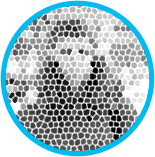
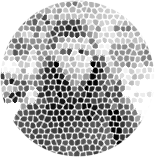
Изменен аватар

Changed region(s): [[0.0, 0.0, 1.0, 1.0]]

diff --git a/css/main.min.css b/css/main.min.css
@@ -1,1 +1,1 @@
-body{box-sizing:border-box}.wrapper{width:100%;height:1000px}header{background-color:#00b9ee;height:74px;border-bottom:2px solid #333}header div{width:20%;height:100%;float:left}header div h1{color:#fff;font-family:BebasBold;font-size:32px;text-align:center;margin-top:23.13px;margin-left:10px}header nav{height:100%;width:79%;float:left;margin-left:-1px}header nav ul{text-align:left;margin-left:7px}header nav ul li{display:inline-block;border-right:1px solid #333;margin-left:-.36em}header nav ul li a{color:#fff;height:74px;font-family:BebasBold;line-height:74px;display:inline-block;font-size:32px;text-align:center;text-decoration:none;padding:0 50px;vertical-align:middle}.active,header nav ul li a:hover{background-color:#333}.sideBar{width:20%;background-color:#737373;height:1000px;border-right:2px solid #333;position:absolute}.avatar{text-align:center;padding:10px 0}.avatar img{width:50%}.about{margin-top:10px;padding-top:20px}.about h2{color:#fff;font-family:RobotoLight;font-size:16px;margin-left:30px}.about h2 span{background-image:url(../img/icons.png);padding-left:25px;background-position:25px 2px;height:20px;width:20px}.about h2:after{content:"__________________";width:10px;padding-left:10px}.about p{color:#fff;font-family:RobotoLight;font-size:12.8px;padding:20px;padding-top:20px}.contacts{margin-top:10px;padding-top:20px}.contacts h2{color:#fff;font-family:RobotoLight;font-size:16px;margin-left:30px}.contacts h2 span{background-image:url(../img/icons.png);padding-left:25px;background-position:25px -20px;width:20px}.contacts h2:after{content:"_______________";width:10px;padding-left:10px}.contacts address{color:#fff;font-family:RobotoLight;font-size:12.8px;padding-top:20px;margin-left:60px}.contacts address:nth-child(2):before{content:"";background-image:url(../img/icons.png);background-position:1px -71px;background-repeat:no-repeat;display:inline-block;width:30px;height:30px;position:relative;top:10px;right:10px}.contacts address:nth-child(3):before{content:"";background-image:url(../img/icons.png);background-position:1px -107px;background-repeat:no-repeat;display:inline-block;width:30px;height:30px;position:relative;top:10px;right:10px}.contacts address:nth-child(4):before{content:"";background-image:url(../img/icons.png);background-position:1px -145px;background-repeat:no-repeat;display:inline-block;width:30px;height:30px;position:relative;top:10px;right:10px}
+body{box-sizing:border-box}.wrapper{width:100%;height:1000px}header{background-color:#00b9ee;height:74px;border-bottom:2px solid #333}header div{width:20%;height:100%;float:left}header div h1{color:#fff;font-family:BebasBold;font-size:32px;text-align:center;margin-top:23.13px;margin-left:10px}header nav{height:100%;width:79%;float:left;margin-left:-1px}header nav ul{text-align:left;margin-left:7px}header nav ul li{display:inline-block;border-right:1px solid #333;margin-left:-.36em}header nav ul li a{color:#fff;height:74px;font-family:BebasBold;line-height:74px;display:inline-block;font-size:32px;text-align:center;text-decoration:none;padding:0 50px;vertical-align:middle}.active,header nav ul li a:hover{background-color:#333}.sideBar{width:20%;background-color:#737373;height:1000px;border-right:2px solid #333;position:absolute}.avatar{text-align:center;padding:10px 0;margin-top:30px}.avatar img{width:50%;border-radius:50%;border:5px solid #00b9ee}.about{margin-top:10px;padding-top:20px}.about h2{color:#fff;font-family:RobotoLight;font-size:16px;margin-left:30px}.about h2 span{background-image:url(../img/icons.png);padding-left:25px;background-position:25px 2px;height:20px;width:20px}.about h2:after{content:"__________________";width:10px;padding-left:10px}.about p{color:#fff;font-family:RobotoLight;font-size:12.8px;padding:20px;padding-top:20px}.contacts{margin-top:10px;padding-top:20px}.contacts h2{color:#fff;font-family:RobotoLight;font-size:16px;margin-left:30px}.contacts h2 span{background-image:url(../img/icons.png);padding-left:25px;background-position:25px -20px;width:20px}.contacts h2:after{content:"_______________";width:10px;padding-left:10px}.contacts address{color:#fff;font-family:RobotoLight;font-size:12.8px;padding-top:20px;margin-left:60px}.contacts address:nth-child(2):before{content:"";background-image:url(../img/icons.png);background-position:1px -71px;background-repeat:no-repeat;display:inline-block;width:30px;height:30px;position:relative;top:10px;right:10px}.contacts address:nth-child(3):before{content:"";background-image:url(../img/icons.png);background-position:1px -107px;background-repeat:no-repeat;display:inline-block;width:30px;height:30px;position:relative;top:10px;right:10px}.contacts address:nth-child(4):before{content:"";background-image:url(../img/icons.png);background-position:1px -14px;background-repeat:no-repeat;display:inline-block;width:30px;height:30px;position:relative;top:10px;right:10px}

diff --git a/css/main.css b/css/main.css
@@ -77,9 +77,12 @@ header nav ul li a:hover {
 .avatar {
   text-align: center;
   padding: 10px 0;
+  margin-top: 30px;
 }
 .avatar img {
   width: 50%;
+  border-radius: 50%;
+  border: 5px solid #00b9ee;
 }
 
 .about {
@@ -169,7 +172,7 @@ header nav ul li a:hover {
 .contacts address:nth-child(4):before {
   content: "";
   background-image: url("../img/icons.png");
-  background-position: 1px -145px;
+  background-position: 1px -14px;
   background-repeat: no-repeat;
   display: inline-block;
   width: 30px;

diff --git a/scss/main.scss b/scss/main.scss
@@ -96,8 +96,11 @@ header{
 .avatar{
 	text-align: center;
 	padding: 10px 0;
+	margin-top: 30px;
 	img{
 		width: 50%;
+		border-radius: 50%;
+		border: 5px solid $ltBlue;
 	}
 }
 
@@ -194,7 +197,7 @@ header{
 		&:nth-child(4):before{
 			content:"";
 			background-image: url("../img/icons.png");
-			background-position: 1px -145px;
+			background-position: 1px -14px;
 			background-repeat: no-repeat;
 			display: inline-block;
 			width: 30px;
